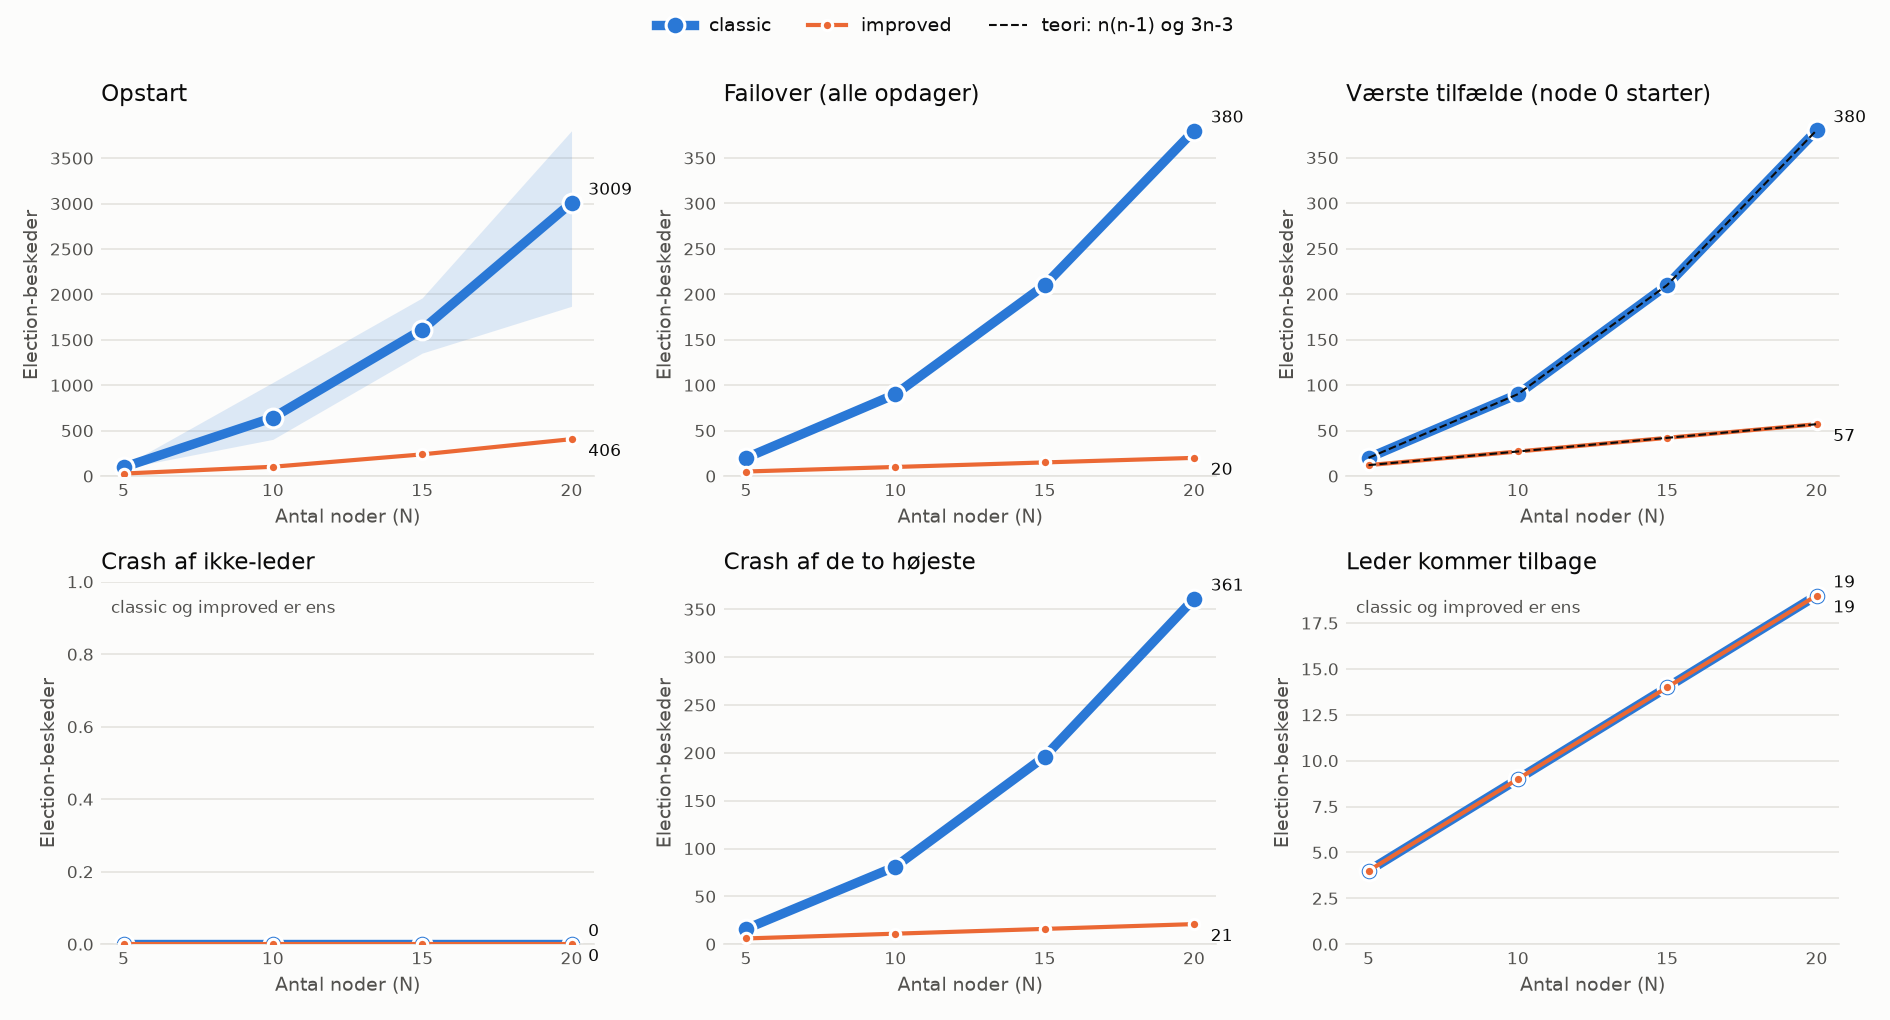
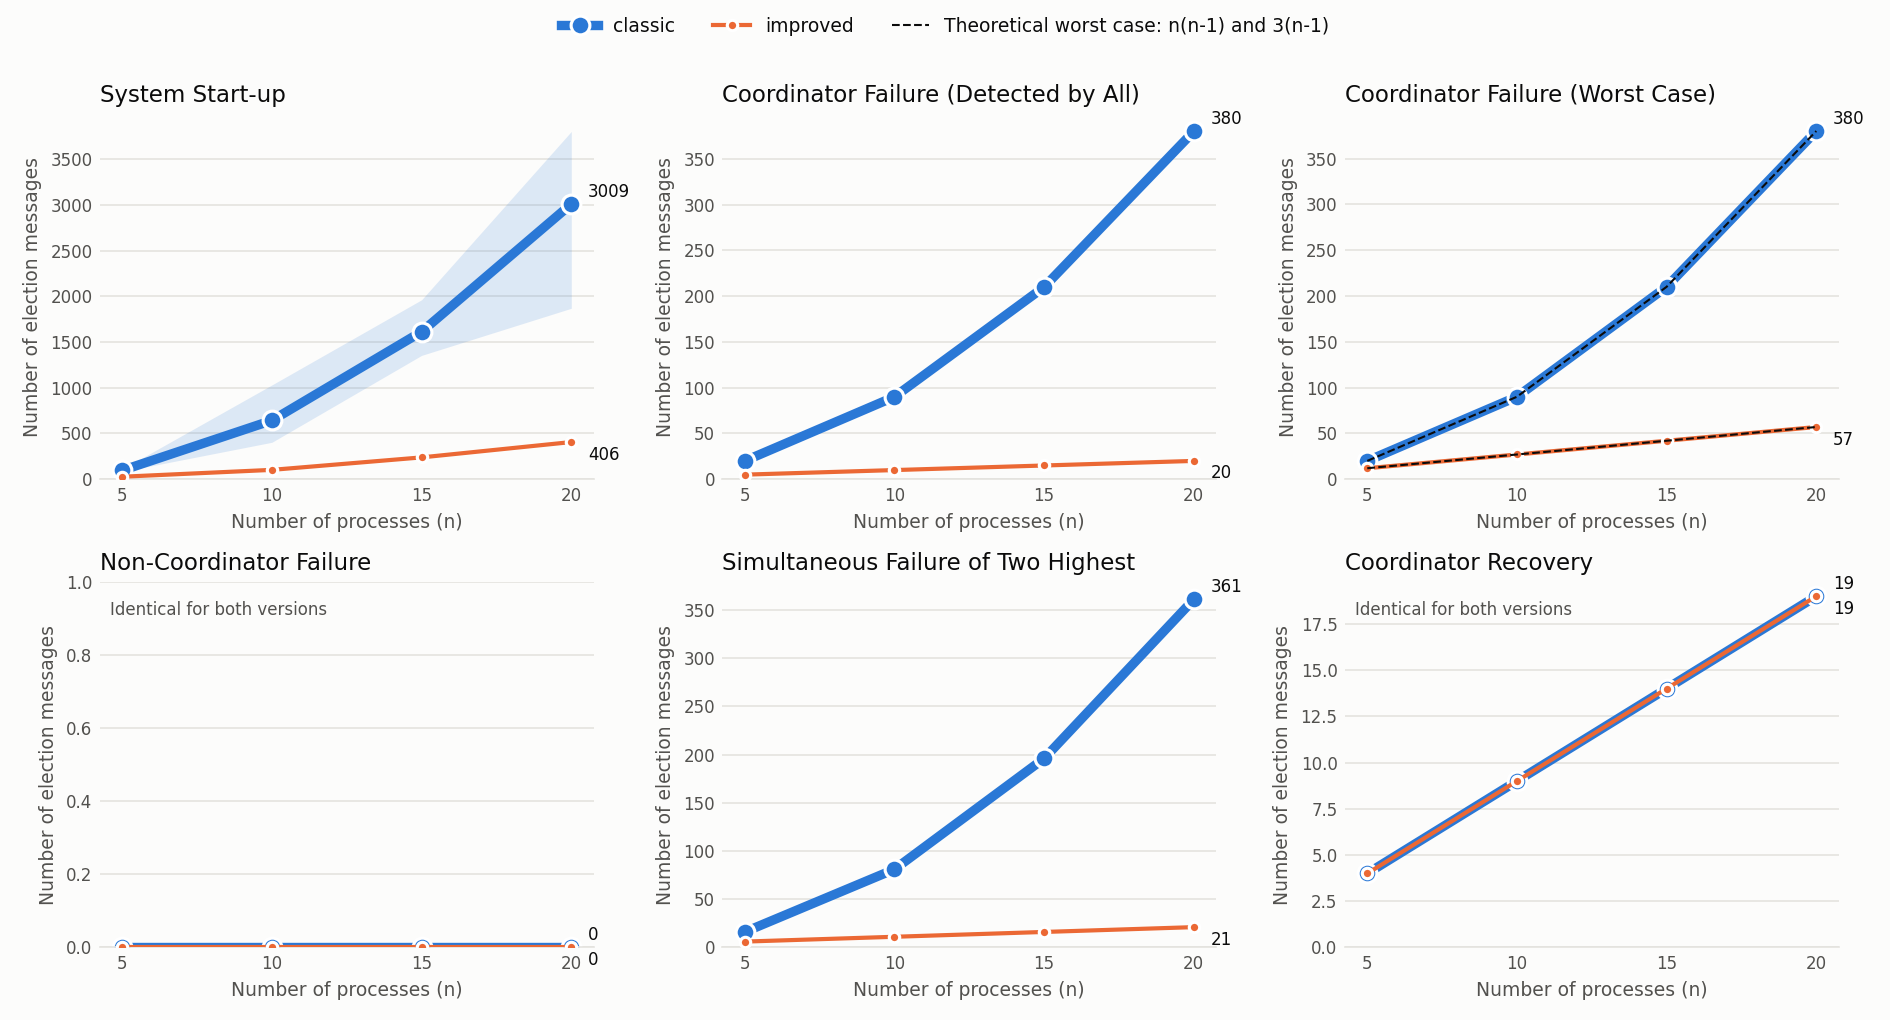
Updated plot text to be consistent and in english for the report

diff --git a/docker/plot_results.py b/docker/plot_results.py
@@ -28,12 +28,12 @@ PLOTS = RESULTS / "plots"
 COLORS = {"classic": "#2a78d6", "improved": "#eb6834"}
 TEXT, MUTED, GRID, SURFACE = "#0b0b0b", "#52514e", "#e4e3df", "#fcfcfb"
 SCENARIO_TITLES = {
-    "startup": "Opstart",
-    "failover": "Failover (alle opdager)",
-    "worst": "Værste tilfælde (node 0 starter)",
-    "crash-middle": "Crash af ikke-leder",
-    "crash-two": "Crash af de to højeste",
-    "recover-leader": "Leder kommer tilbage",
+    "startup": "System Start-up",
+    "failover": "Coordinator Failure (Detected by All)",
+    "worst": "Coordinator Failure (Worst Case)",
+    "crash-middle": "Non-Coordinator Failure",
+    "crash-two": "Simultaneous Failure of Two Highest",
+    "recover-leader": "Coordinator Recovery",
 }
 # Teoretiske beskedtal for vaerste tilfaelde (samme formler som cmd_worst i experiment.py)
 THEORY = {"classic": lambda n: n * (n - 1), "improved": lambda n: 3 * n - 3}
@@ -58,7 +58,7 @@ def summarize(df: pd.DataFrame) -> pd.DataFrame:
 
 def style(ax, title, ylabel):
     ax.set_title(title, color=TEXT, fontsize=11, loc="left")
-    ax.set_xlabel("Antal noder (N)", color=MUTED, fontsize=9)
+    ax.set_xlabel("Number of processes (n)", color=MUTED, fontsize=9)
     ax.set_ylabel(ylabel, color=MUTED, fontsize=9)
     ax.tick_params(colors=MUTED, labelsize=8, length=0)
     ax.grid(axis="y", color=GRID, linewidth=0.8)
@@ -95,7 +95,7 @@ def plot(summary: pd.DataFrame, metric: str, ylabel: str, filename: str, theory:
             if theory and scenario == "worst":
                 # Teori som tynd moerk stiplet linje oeverst, saa den ses selv naar maalingerne rammer den
                 ax.plot(d["n"], [THEORY[algo](n) for n in d["n"]], color=TEXT, linewidth=1,
-                        linestyle="--", zorder=4, label="teori: n(n-1) og 3n-3")
+                        linestyle="--", zorder=4, label="Theoretical worst case: n(n-1) and 3(n-1)")
             # Direkte label ved sidste punkt, i tekstfarve (farven baeres af linjen)
             last = d.iloc[-1]
             value = last[f"{metric}_mean"]
@@ -105,10 +105,10 @@ def plot(summary: pd.DataFrame, metric: str, ylabel: str, filename: str, theory:
         # Er tallene ens, ligger improved-linjen oven paa classic. Sig det, saa classic ikke ser ud til at mangle.
         per_algo = [tuple(data[data["algorithm"] == a].sort_values("n")[f"{metric}_mean"]) for a in COLORS]
         if drawn and len(per_algo[0]) and per_algo[0] == per_algo[1]:
-            ax.text(0.02, 0.95, "classic og improved er ens", transform=ax.transAxes,
+            ax.text(0.02, 0.95, "Identical for both versions", transform=ax.transAxes,
                     ha="left", va="top", fontsize=8, color=MUTED)
         if not drawn:
-            ax.text(0.5, 0.5, "ingen election (forventet)", transform=ax.transAxes,
+            ax.text(0.5, 0.5, "No election required (expected)", transform=ax.transAxes,
                     ha="center", va="center", fontsize=9, color=MUTED)
         style(ax, SCENARIO_TITLES[scenario], ylabel)
     for ax in axes.flat[len(scenarios):]:
@@ -135,8 +135,8 @@ def main() -> None:
     summary = summarize(df)
     summary.to_csv(PLOTS / "summary.csv", index=False)
     print(f"Laeste {len(df)} koersler fra {src}")
-    print(plot(summary, "total", "Election-beskeder", "messages_vs_n.png", theory=True))
-    print(plot(summary, "time", "Election-tid (s)", "time_vs_n.png", theory=False))
+    print(plot(summary, "total", "Number of election messages", "messages_vs_n.png", theory=True))
+    print(plot(summary, "time", "Election time (s)", "time_vs_n.png", theory=False))
     print(PLOTS / "summary.csv")
     wrong = df[~df["correct"].astype(bool)]
     if len(wrong):
